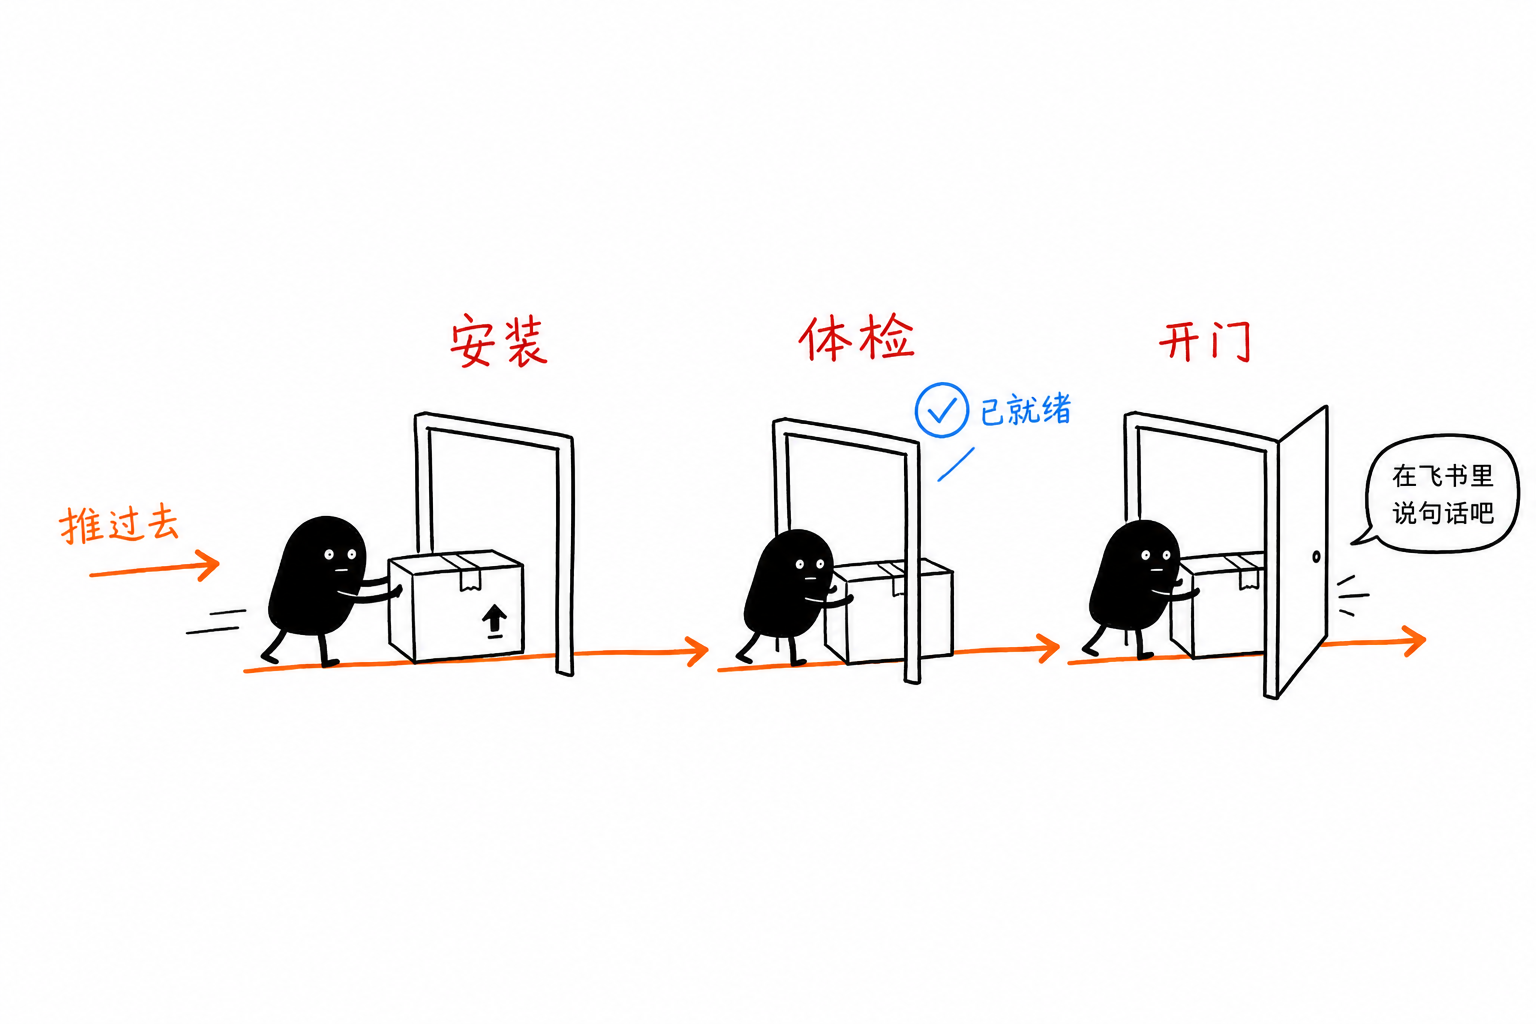
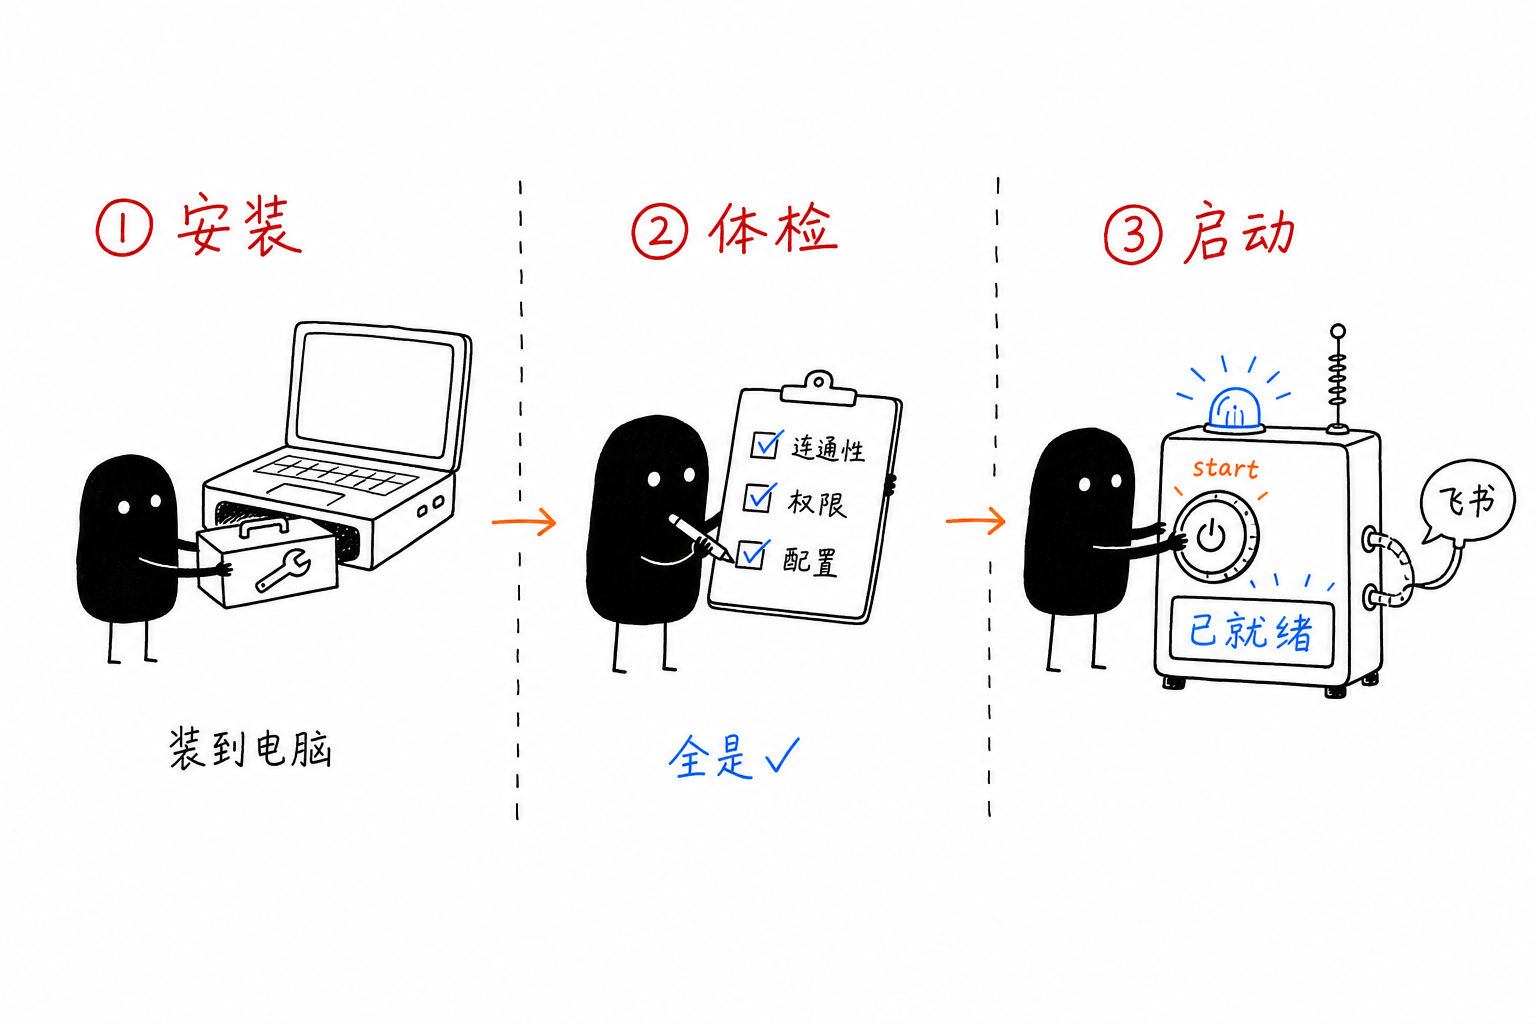
Clarify guide illustrations for setup, chat, and safety
Replace abstract metaphors with panel comics that map 1:1 to install/doctor/start, @ + live card, and the three security rules.

diff --git a/docs/guide.md b/docs/guide.md
@@ -54,6 +54,10 @@ copilot
 
 ## 三步开始用
 
+每步只干一件事：**装到电脑 → 打勾体检 → 拧开启动**。
+
+![①安装 ②体检 ③启动 三格漫画](../assets/guide-illustrations/03-three-gates.png)
+
 ### ① 安装
 
 ```bash
@@ -83,8 +87,6 @@ lark-copilot-bridge status
 
 第一次会依次问你：扫码创建机器人 → 选项目文件夹 → 谁能用（推荐「仅我自己」）。
 
-![安装、体检、开门三道闸](../assets/guide-illustrations/03-three-gates.png)
-
 终端显示「已就绪」后：打开飞书，搜机器人名称，私聊发一句「你好」。
 
 想改文件夹或权限，随时再跑：
@@ -107,19 +109,17 @@ lark-copilot-bridge setup
 - **换项目文件夹**：`/cd 路径`（管理员）
 - **命名工作目录**：`/ws`（管理员；详见 README）
 
-![群聊拉 @ 绳，卡片在呼吸](../assets/guide-illustrations/04-at-and-live-card.png)
+![没@听不见；有@则同一张卡原地更新思考/工具/正文](../assets/guide-illustrations/04-at-and-live-card.png)
 
 若 `doctor` 提示不支持 json 输出，卡片会降级为纯文本流式。升级 Copilot CLI 即可。
 
 ---
 
-## 安全：窄门只进一个项目箱
+## 安全：只给自己，只动一个项目
 
-这个机器人能指挥 **你这台电脑** 上的 Copilot 改文件。
+这个机器人能指挥 **你这台电脑** 上的 Copilot 改文件。请记住三件事：
 
-![窄门守着，整栋家挡在门外](../assets/guide-illustrations/05-narrow-gate-security.png)
-
-请记住三件事：
+![①仅自己 ②别拉进陌生群 ③只动项目文件夹](../assets/guide-illustrations/05-narrow-gate-security.png)
 
 1. 设置里选 **「仅我自己」**
 2. 不要把机器人拉进陌生人可见的群
